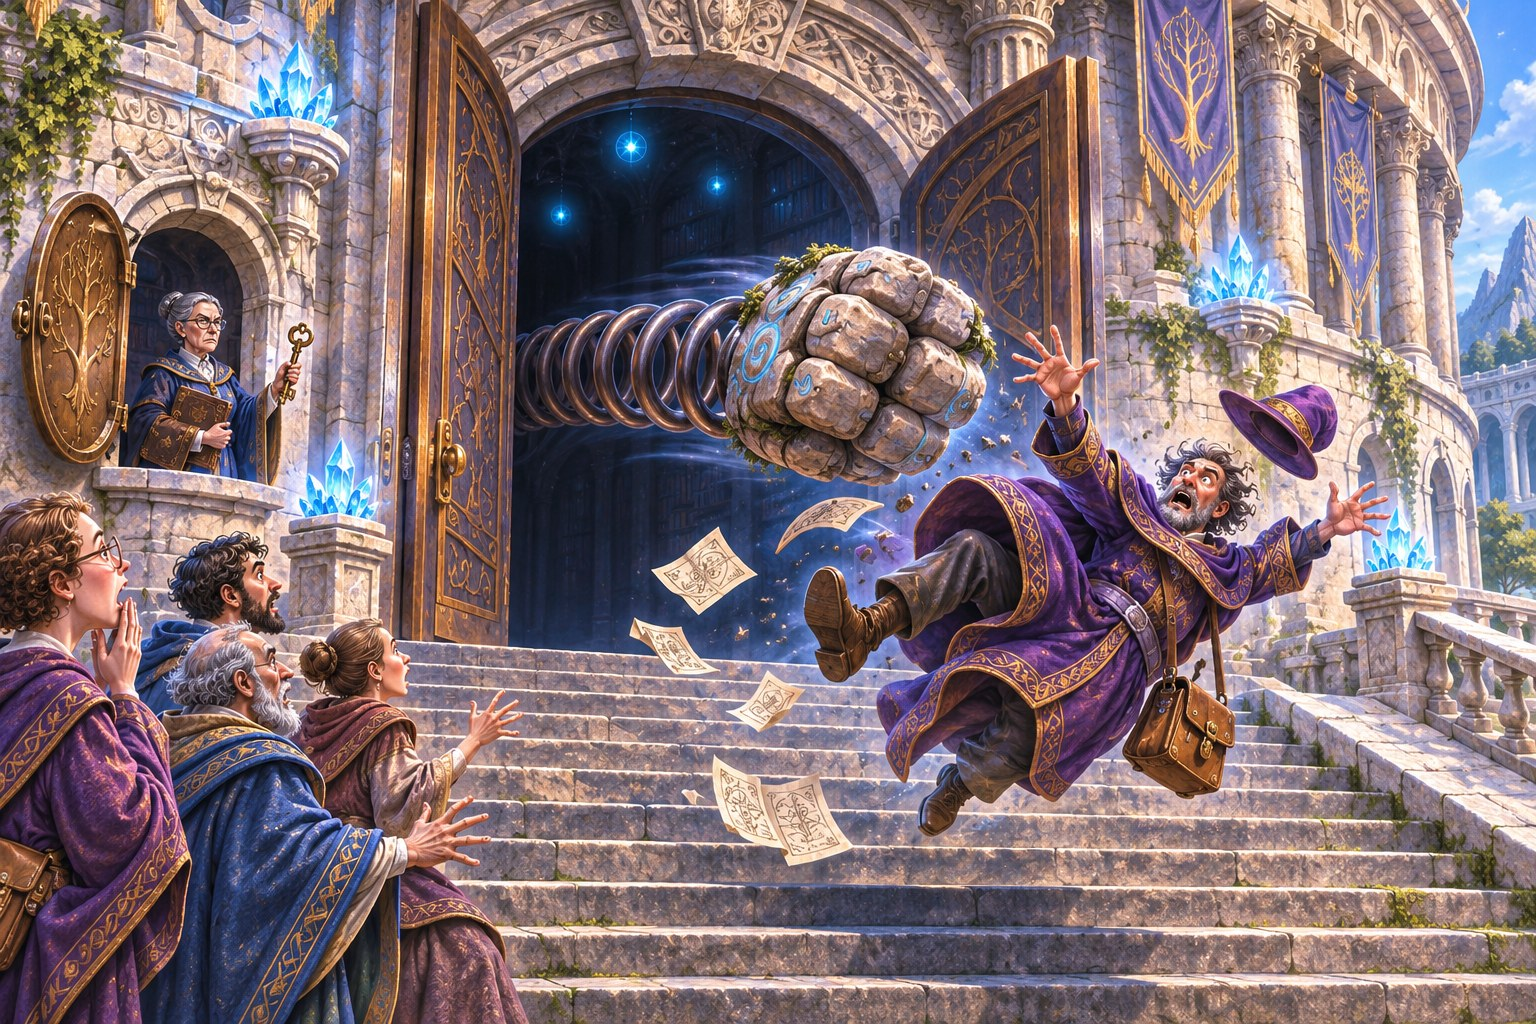
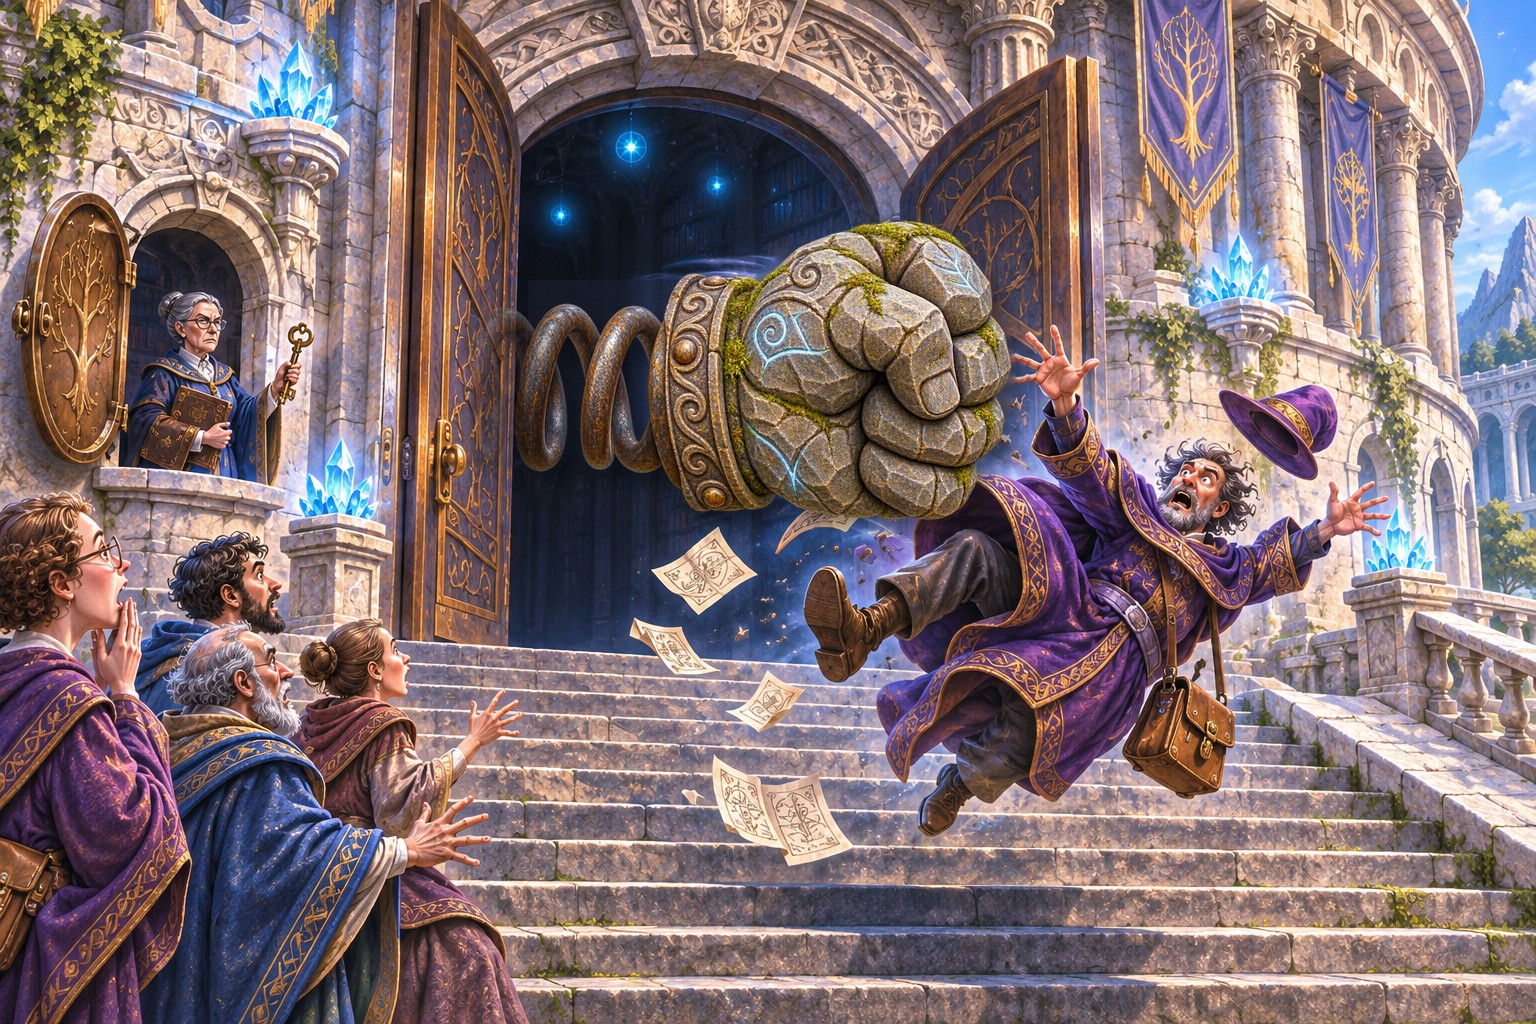
Great Archives: fixed door fist, new cover, bracelets stay behind, Brannoch goes back in, tougher golems with long knockback
Claude-Session: https://claude.ai/code/session_01QqMC3jV4Jm9bLjV1D99fiy

Changed region(s): [[0.2812, 0.2188, 0.6875, 0.5312]]

diff --git a/oneshots/great-archives/homebrewery-source.md b/oneshots/great-archives/homebrewery-source.md
@@ -99,7 +99,7 @@
 .page .oo-credits h2{margin-top:0}
 .page .oo-credits p{font-size:12.5px}
 </style>
[2 lines of base64/hex data omitted]
 \page
 <div class="running" style="--accent:#8a3b12"><span>The Destruction of the Great Archives</span><span>GM ONLY</span></div><div class="pf-body gm-synopsis" style="--accent:#8a3b12"><h1>GM synopsis</h1><p class="synopsis-deck">The Destruction of the Great Archives</p><div class="synopsis-columns"><div><h3>The adventure</h3><p><strong>Professor Emeric Quillweather</strong> has spent years following the research of Magister Othrelis Var, and he has done it: a Genesis Egg, through three of its four stages, ready to hatch. He hires the party to keep him safe on the way to the <strong>Great Archives</strong>, then begs them to stay for the hatching.</p><p>On the players’ phones, the egg hatches into the fluffiest bird anyone has ever seen. They name it, stroke it and feed it. Then it flutters to a bookcase, and a stone guardian punches it flat. <strong>BOING! SPLAT!</strong></p><h3>What is really happening</h3><p>The bird has no bracelet, and in the Great Archives no bracelet means intruder. The golems are not broken. They are doing exactly what they were built to do.</p><p>Nobody knew the egg had been infused with fire. <strong>WHOOMPH.</strong> The bird is reborn in flame, the shelves catch, and a terrified baby phoenix flies straight up through the tower with every guardian in the building after it.</p></div><div><h3>Where it leads</h3><ul><li><strong>Act I:</strong> the hire, the escort and the doors. BOING!</li><li><strong>Act II:</strong> naming, hatching and bonding on the players’ phones. SPLAT!</li><li><strong>Act III:</strong> the Archives burn. WHOOMPH! The bird, the fire, the people and the books.</li><li><strong>Ending:</strong> the assembly ground, and the librarians’ story.</li></ul><p>Built for six level-3 characters in one session of about 3–3½ hours. Set in the Great Archives, 298 THK.</p><p><strong>History says the Archives burn.</strong> This adventure never fakes that. The players get every honest chance to change it.</p></div></div><section class="story-navigation"><h2>At the table</h2><div class="nav-grid"><div><h4>Story route</h4><p><a href="#p3">Running this adventure</a></p><p><a href="#p5">Act I · The Professor and the Archives</a></p><p><a href="#p9">Act II · Naming, Hatching, Bonding</a></p><p><a href="#p13">Act III · The Archives Burn</a></p><p><a href="#p19">Ending · The Assembly Ground</a></p></div><div><h4>Reference</h4><p><a href="#p20">GM quick reference</a></p><p><a href="#p14">Golem hazard card</a></p><p><a href="#p2">The tower, level by level</a></p><p><a href="#p22">Maps</a></p><p><a href="#p27">Tracker, log and naming sheet</a></p><p><a href="#p31">Player handout</a></p></div></div></section></div><div class="folio-footer"><span>The Destruction of the Great Archives</span><span>2</span></div>
 \page
@@ -124,6 +124,10 @@
 <tr>
 <td style="text-align: left;"><strong>No bangle, no safety</strong></td>
 <td style="text-align: left;">A bracelet teleports <strong>only its wearer</strong>. Holding the bird when you teleport? The bird stays exactly where you were.</td>
+</tr>
+<tr>
+<td style="text-align: left;"><strong>Out means out</strong></td>
+<td style="text-align: left;">A bracelet that takes you to the assembly ground comes off there and is gone. Go back in, and you go in without one.</td>
 </tr>
 <tr>
 <td style="text-align: left;"><strong>Golems chase the bird</strong></td>
@@ -169,7 +173,7 @@
 </tr>
 <tr>
 <td style="text-align: left;"><strong>The golems</strong></td>
-<td style="text-align: left;">Seven stone guardians. Polite, precise, unstoppable.</td>
+<td style="text-align: left;">Seven stone guardians. Polite, precise, very hard to stop.</td>
 </tr>
 <tr>
 <td style="text-align: left;"><strong>Head Librarian Ottoline Faversham</strong></td>
@@ -181,7 +185,7 @@
 </tr>
 <tr>
 <td style="text-align: left;"><strong>Brannoch Tey</strong></td>
-<td style="text-align: left;">A young follower who slipped inside. No bracelet.</td>
+<td style="text-align: left;">A young copyist, quietly a follower of Isthara. Escapes, then goes back in without his bracelet.</td>
 </tr>
 <tr>
 <td style="text-align: left;"><strong>Old Wenlow</strong></td>
@@ -366,16 +370,16 @@
 </tbody>
 </table></div></div></div><div class="folio-footer"><span>The Destruction of the Great Archives</span><span>13</span></div>
 \page
-<div class="running" style="--accent:#8a3b12"><span>The Destruction of the Great Archives</span><span>GM · GOLEMS</span></div><div class="pf-body columns" style="--accent:#8a3b12"><div class="layout-cols"><div class="flow-col"><div class="hazard"><h4>Golem · hazard card</h4><p><em>Huge construct guardian. It cannot be destroyed. It can be outwitted.</em></p>
+<div class="running" style="--accent:#8a3b12"><span>The Destruction of the Great Archives</span><span>GM · GOLEMS</span></div><div class="pf-body columns" style="--accent:#8a3b12"><div class="layout-cols"><div class="flow-col"><div class="hazard"><h4>Golem · hazard card</h4><p><em>Huge construct guardian. Very hard to destroy. Easier to outwit.</em></p>
 <ul>
 <li><strong>Target:</strong> always the <strong>closest creature without a bracelet</strong> it can reach.</li>
 <li><strong>Fist:</strong> +7 to hit, reach 30 ft (the spring shoots out and snaps back).</li>
-<li><strong>Hits a PC who got in the way:</strong> 12 (2d8 + 3) Bludgeoning, and DC 13 Strength save or pushed 10 ft and knocked Prone.</li>
+<li><strong>Hits anyone else:</strong> only 4 (1d4 + 2) Bludgeoning, but they're <strong>knocked 30 ft</strong> straight back and land Prone (DC 13 Strength save: 10 ft, and stay standing). Slamming into a wall or shelf adds 3 (1d6). Knocked over a gallery rail, they fall to the level below.</li>
 <li><strong>Hits the bird:</strong> the bird dies and is reborn, <strong>WHOOMPH</strong>. That spot is now <strong>burning</strong>. Everyone within 10 ft makes a DC 12 Dexterity save, taking 7 (2d6) Fire damage on a failure, half on a success.</li>
 <li><strong>Misses:</strong> the fist smashes whatever is behind the target. Mark that spot <strong>damaged</strong>.</li>
 <li><strong>Moves:</strong> 30 ft a round, by the stairs. It does not jump the gaps.</li>
-<li><strong>Staggering it:</strong> 25 damage in one round, and it loses its next turn. Nothing more.</li>
-<li><strong>Immune</strong> to being Charmed or Frightened. It ignores fire entirely.</li>
+<li><strong>Toughness:</strong> AC 17, 150 Hit Points. <strong>Resistant</strong> to all damage; <strong>immune</strong> to Fire, Poison and Psychic damage, and to being Charmed, Frightened or Poisoned. A level-3 party is not going to break one, and shouldn't need to.</li>
+<li><strong>Staggering it:</strong> 20 damage in one round (after resistance), and it loses its next turn.</li>
 </ul></div><div class="gm-note"><h4>Only two chase at once</h4><p>Only the golem on the bird’s level and the one on the level below it pursue. The rest guard their posts, and punch anything without a bracelet that comes within reach.</p></div></div><div class="flow-col"><h3>Stopping a strike</h3>
 <p>Each of these stops <strong>one</strong> strike. Reward anything else that's clever and fits the rules.</p>
 <table>
@@ -432,8 +436,9 @@
 </ul>
 <h3>Teleporting out</h3>
 <ul>
-<li>A PC wearing a bracelet who would drop to <strong>0 Hit Points</strong>, or take a deadly fall or burn, is <strong>teleported to the assembly ground at 1 Hit Point</strong> instead. They're out of the scene.</li>
-<li>Anyone can <strong>activate a bracelet at will</strong>.</li>
+<li>A PC wearing a bracelet who would drop to <strong>0 Hit Points</strong>, or take a deadly fall or burn, is <strong>teleported to the assembly ground at 1 Hit Point</strong> instead.</li>
+<li>Anyone can <strong>activate a bracelet at will</strong>: the emergency way out.</li>
+<li><strong>The bracelet stays behind.</strong> On arrival it slips off and vanishes back to the recess. Anyone who goes back inside does so <strong>without a bracelet</strong>, and the golems treat them as an intruder.</li>
 <li><strong>If they're holding the bird,</strong> it drops exactly where they stood.</li>
 </ul><div class="gm-note"><h4>False hope, fairly</h4><p>Let them win things. A contained gallery, a blocked punch, a rescued cat, a dozen books saved: all real, all permanent. The tower tips towards burning because there is too much to do and too few heroes, not because anything is faked. Keep the tracker swinging both ways.</p></div></div></div></div><div class="folio-footer"><span>The Destruction of the Great Archives</span><span>15</span></div>
 \page
@@ -470,7 +475,7 @@
 <td style="text-align: left;"><strong>4 · Faith and law</strong></td>
 <td style="text-align: left;">Temple texts, including Isthara's</td>
 <td style="text-align: left;">3 clusters</td>
-<td style="text-align: left;"><strong>Brannoch Tey</strong>, hiding with a sealed book</td>
+<td style="text-align: left;"><strong>Brannoch Tey</strong>, back without a bracelet</td>
 </tr>
 <tr>
 <td style="text-align: left;"><strong>5 · Restricted</strong></td>
@@ -488,7 +493,7 @@
 </table>
 <p><strong>Getting out with the bird:</strong> the doors on Level 1 (two golems guard them), the tall windows on any level (a long drop to the square), or the roof hatch on Level 6 (an iron ladder, then the rooftops).</p><div class="gm-note"><h4>Var’s notebooks</h4><p>The professor’s own research copy of Var is on Level 3. If it burns, he grieves it all the way to the assembly ground. If a player unseals it and carries it out, he never forgets them.</p></div></div><div class="flow-col"><h3>The people</h3>
 <p>None of them has a bracelet, so <strong>the golems go for them too</strong>. Every one is another target, another stray fist through a shelf, and another reason the party can't be everywhere at once.</p>
-<p><strong>Brannoch Tey</strong> <em>(young follower of Isthara).</em> Darted in when the fire started and the door golems turned to chase the bird, hoping to rescue one book. Now he's trapped on Level 4, terrified, clutching it. If anyone helps him, he helps back. He knows the back stair. He has to choose between the book and his life, and the book will go home either way unless it's unsealed.</p>
+<p><strong>Brannoch Tey</strong> <em>(copyist, quietly a follower of Isthara).</em> He came in properly, bracelet and all. When the fire started he hit his bracelet and found himself on the assembly ground, bracelet gone. Then he looked up at the smoke, thought of Isthara's books on Level 4, and ran straight back in. <strong>Now he has no bracelet, and the golems come for him.</strong> The party can help him, shield him, or drag him out. If anyone helps him, he helps back: he knows the back stair. Whatever he grabs will go home unless it's unsealed at the monolith.</p>
 <p><strong>Old Wenlow</strong> <em>(librarian).</em> Took his bracelet off to polish it, put it down, and can't remember where. Kind, flustered, slow on the stairs. The bracelet is in his top pocket.</p>
 <p><strong>The reading-room cat.</strong> Under a table on Level 3, refusing to move. A perfect distraction, if anyone's quick and a little heartless.</p>
 <h3>Ottoline Faversham</h3>
@@ -606,10 +611,10 @@
 <h3>The golems</h3>
 <ul>
 <li>Target the closest creature <strong>without a bracelet</strong>.</li>
-<li>+7, reach 30 ft. 12 damage + DC 13 Str or pushed and Prone.</li>
+<li>+7, reach 30 ft. Anyone it hits: 1d4 + 2, knocked 30 ft and Prone (DC 13 Str: 10 ft).</li>
 <li>Hit the bird: WHOOMPH, new fire, DC 12 Dex for 2d6 Fire within 10 ft.</li>
 <li>Miss: damage behind the target.</li>
-<li>Can't be destroyed; 25 damage in a round makes it skip a turn.</li>
+<li>AC 17, 150 HP, resistant to everything, immune to Fire. 20 damage in a round makes it skip a turn.</li>
 <li>Only two chase the bird at once. They never fight fires.</li>
 </ul>
 <h3>Stopping a strike</h3>
@@ -661,7 +666,7 @@
 \page
 <div class="running" style="--accent:#8a3b12"><span>The Destruction of the Great Archives</span><span>GM · MAP KEY</span></div><div class="pf-body map-key-page" style="--accent:#8a3b12"><section class="map-key"><div class="map-eyebrow">GM MAP &amp; KEY · GA-M02</div><h3>An Upper Gallery</h3><figure class="gm-map-plate" style="--gm-map-height:540px"><img src="https://oberonandomegaid.github.io/aelderia/oneshots/great-archives/img/map-gallery-gm.jpg" alt="An Upper Gallery: GM reference"></figure><ul class="map-key-list"><li><strong>1 · Outer shelves</strong> — All the way round. The first thing to burn.</li><li><strong>2 · Reading platform</strong> — Raised, with tables and chairs. Half Cover.</li><li><strong>3 · The gaps</strong> — Open drops to the level below, with railings. The bird flies up through them; golems don’t jump them. Falling one level is 10 ft (1d6 damage).</li><li><strong>4 · The stairs</strong> — Up and down, top and bottom of the circle. Golems use these.</li><li><strong>5 · Crystal clusters</strong> — On the pillars. Watch them.</li><li><strong>7 · Golem patrol</strong> — One golem walks each gallery.</li></ul><p class="map-gm-note">Tall windows sit in the outer wall between the shelf runs: a long drop to the square, and a way out for a bird.</p></section></div><div class="folio-footer"><span>The Destruction of the Great Archives</span><span>25</span></div>
 \page
-<div class="running" style="--accent:#8a3b12"><span>The Destruction of the Great Archives</span><span>GM · CHARACTERS</span></div><div class="pf-body columns" style="--accent:#8a3b12"><div class="layout-cols"><div class="flow-col"><h2>Appendix A — Characters</h2><div class="cast"><img alt="" src="https://oberonandomegaid.github.io/aelderia/oneshots/great-archives/img/professor.jpg" style="object-position:50% 12%"><div><p><strong>Professor Emeric Quillweather</strong> <em>(human, sixties).</em> Brilliant, respected, cultured and a tireless chatterbox. Eleven years on Var’s research. Loves the bird the moment it hatches, marvels at its rebirth, then fights for it. <em>Voice: a delighted lecturer on his third cup of tea.</em></p></div></div><div class="cast"><img alt="" src="https://oberonandomegaid.github.io/aelderia/oneshots/great-archives/img/faversham.jpg" style="object-position:50% 12%"><div><p><strong>Head Librarian Ottoline Faversham.</strong> Brisk, proud, never wrong. Holds authority over the restricted works. Saves what she can, then writes the official story. <em>Voice: crisp, cold, final.</em></p></div></div><div class="cast"><img alt="" src="https://oberonandomegaid.github.io/aelderia/oneshots/great-archives/img/golem.jpg" style="object-position:50% 20%"><div><p><strong>The golems.</strong> Seven stone guardians. Polite, precise, literal. Not broken, not stupid. They do exactly what they were built to do. <em>Voice: none. A polite clunk.</em></p></div></div></div><div class="flow-col"><div class="cast"><img alt="" src="https://oberonandomegaid.github.io/aelderia/oneshots/great-archives/img/brannoch.jpg" style="object-position:50% 14%"><div><p><strong>Brannoch Tey</strong> <em>(follower of Isthara, early twenties).</em> Brave for about four seconds at a time. Wants one holy book back. Honest, frightened, grateful. <em>Voice: fast and breathless.</em></p></div></div><p><strong>The hatchling.</strong> Pipkin, Fizzwick, Solin or Tuppence. Fluffy, golden to crimson, enormous eyes. A phoenix, though nobody knew. Bonded to the professor.</p>
+<div class="running" style="--accent:#8a3b12"><span>The Destruction of the Great Archives</span><span>GM · CHARACTERS</span></div><div class="pf-body columns" style="--accent:#8a3b12"><div class="layout-cols"><div class="flow-col"><h2>Appendix A — Characters</h2><div class="cast"><img alt="" src="https://oberonandomegaid.github.io/aelderia/oneshots/great-archives/img/professor.jpg" style="object-position:50% 12%"><div><p><strong>Professor Emeric Quillweather</strong> <em>(human, sixties).</em> Brilliant, respected, cultured and a tireless chatterbox. Eleven years on Var’s research. Loves the bird the moment it hatches, marvels at its rebirth, then fights for it. <em>Voice: a delighted lecturer on his third cup of tea.</em></p></div></div><div class="cast"><img alt="" src="https://oberonandomegaid.github.io/aelderia/oneshots/great-archives/img/faversham.jpg" style="object-position:50% 12%"><div><p><strong>Head Librarian Ottoline Faversham.</strong> Brisk, proud, never wrong. Holds authority over the restricted works. Saves what she can, then writes the official story. <em>Voice: crisp, cold, final.</em></p></div></div><div class="cast"><img alt="" src="https://oberonandomegaid.github.io/aelderia/oneshots/great-archives/img/golem.jpg" style="object-position:50% 20%"><div><p><strong>The golems.</strong> Seven stone guardians. Polite, precise, literal. Not broken, not stupid. They do exactly what they were built to do. <em>Voice: none. A polite clunk.</em></p></div></div></div><div class="flow-col"><div class="cast"><img alt="" src="https://oberonandomegaid.github.io/aelderia/oneshots/great-archives/img/brannoch.jpg" style="object-position:50% 14%"><div><p><strong>Brannoch Tey</strong> <em>(copyist and quiet follower of Isthara, early twenties).</em> Brave for about four seconds at a time. Escaped once, went back in without a bracelet for one holy book. Honest, frightened, grateful. <em>Voice: fast and breathless.</em></p></div></div><p><strong>The hatchling.</strong> Pipkin, Fizzwick, Solin or Tuppence. Fluffy, golden to crimson, enormous eyes. A phoenix, though nobody knew. Bonded to the professor.</p>
 <p><strong>Old Wenlow</strong> <em>(librarian).</em> Kind, forgetful, slow on the stairs. His bracelet is in his top pocket.</p>
 <p><strong>The reading-room cat.</strong> Unimpressed by everything, including fire.</p>
 <p><strong>The bracelet librarian.</strong> Comes out to the steps with her key and ledger. Bored, thorough, entirely correct. <em>"You, mind. Not your lunch."</em></p>
@@ -673,11 +678,11 @@
 \page
 <div class="running" style="--accent:#8a3b12"><span>The Destruction of the Great Archives</span><span>GM ONLY · NAMING SHEET</span></div><div class="pf-body stat" style="--accent:#8a3b12"><h2>The naming sheet</h2><p><strong>Private. Never show this to the players.</strong> The professor talks over the qualities in character. Listen to what the players want, then offer one name, or two or three for a vote. All four birds are equally adorable.</p><div class="four-box"><div><h4>Pipkin</h4><p><strong>Curious, adventurous, inquisitive.</strong></p><p>On the phone: Peers at everything, tilts its head, investigates your hand.</p><p class="say">The professor: “A little explorer. It will want to know what’s behind every door, and it will find out.”</p></div><div><h4>Fizzwick</h4><p><strong>Playful, mischievous, energetic.</strong></p><p>On the phone: Bounces, flutters, hops at the slightest excuse.</p><p class="say">The professor: “Oh, trouble. Delightful trouble. We shall never have a quiet afternoon again.”</p></div><div><h4>Solin</h4><p><strong>Gentle, thoughtful, observant.</strong></p><p>On the phone: Slow blinks, soft chirps, studies you calmly.</p><p class="say">The professor: “A quiet one. It will watch, and it will understand more than we think.”</p></div><div><h4>Tuppence</h4><p><strong>Affectionate, loyal, cuddly.</strong></p><p>On the phone: Leans into every stroke and asks for more.</p><p class="say">The professor: “A heart on two little feet. It will love whoever loves it, completely.”</p></div></div><div class="gm-note"><h4>Prompts for the professor</h4><p>“Names matter. Var said the name shapes the creature as much as the creature shapes the name.” · “What would you want from a little companion? Curiosity? Mischief? Calm? Devotion?” · “I have a name in mind. Shall I say it, or shall we vote?”</p></div></div><div class="folio-footer"><span>The Destruction of the Great Archives</span><span>29</span></div>
 \page
-<div class="pf-body oo-fill"><img alt="" src="https://oberonandomegaid.github.io/aelderia/oneshots/great-archives/img/golem.jpg"></div>
+<div class="pf-body oo-fill"><img alt="" src="https://oberonandomegaid.github.io/aelderia/oneshots/great-archives/img/burning.jpg"></div>
 \page
 <div class="running" style="--accent:#8a3b12"><span>The Destruction of the Great Archives</span><span>PLAYER HANDOUT</span></div><div class="pf-body columns handout-page oo-prop" style="--accent:#8a3b12"><div class="layout-cols"><div class="flow-col"><p class="map-eyebrow">PLAYER HANDOUT 1</p><h3>The official proclamation</h3><div class="papers proc"><p><em>By order of the Keepers of the Great Archives, 298 THK.</em></p><p><em>Let it be known that the Great Archives suffered a grievous fire, caused by the deliberate sabotage of unidentified intruders. The Archives’ guardians performed flawlessly. No animals were present. Any person claiming otherwise is mistaken.</em></p><p><em>— O. Faversham, Head Librarian</em></p></div></div></div><div class="oo-qr"><img alt="QR code" src="https://oberonandomegaid.github.io/aelderia/oneshots/great-archives/qr/handout-1.png"><span><b>SCAN ME</b>Open “The official proclamation”<br>on your phone</span></div></div><div class="folio-footer"><span>The Destruction of the Great Archives</span><span>31</span></div>
 \page
-<div class="pf-body oo-fill"><img alt="" src="https://oberonandomegaid.github.io/aelderia/oneshots/great-archives/img/burning.jpg"></div>
+<div class="pf-body oo-fill"><img alt="" src="https://oberonandomegaid.github.io/aelderia/oneshots/great-archives/img/professor.jpg"></div>
 \page
 <div class="pf-body oo-pregen"><img alt="Pre-generated characters, level 3, page 1" src="https://oberonandomegaid.github.io/aelderia/characters/handouts/pages/level-03-page-1.jpg"></div>
 \page
@@ -685,7 +690,7 @@
 \page
 <div class="pf-body oo-pregen"><img alt="Pre-generated characters, level 3, page 3" src="https://oberonandomegaid.github.io/aelderia/characters/handouts/pages/level-03-page-3.jpg"></div>
 \page
-<div class="pf-body oo-fill"><img alt="" src="https://oberonandomegaid.github.io/aelderia/oneshots/great-archives/img/professor.jpg"></div>
+<div class="pf-body oo-fill"><img alt="" src="https://oberonandomegaid.github.io/aelderia/oneshots/great-archives/img/monolith.jpg"></div>
 \page
 <div class="running" style="--accent:#51584e"><span>The Destruction of the Great Archives</span><span>CREDITS</span></div><div class="pf-body columns oo-credits" style="--accent:#8a3b12"><h2>Credits and licence</h2><p><strong>The Destruction of the Great Archives</strong> is an original adventure by Oberon &amp; Omega, set in the world of Aelderia.</p><p>The Genesis Egg system and Magister Othrelis Var appear in <em>Genesis Eggs: The Endless Possibilities</em> by Oberon &amp; Omega. The interactive egg is at oberonandomegaid.github.io/aelderia.</p><h3>Rules licence</h3><p>This work includes material from the System Reference Document 5.2.1 (“SRD 5.2.1”) by Wizards of the Coast LLC, available at https://www.dndbeyond.com/srd. The SRD 5.2.1 is licensed under the Creative Commons Attribution 4.0 International License, available at https://creativecommons.org/licenses/by/4.0/legalcode.</p><p>Rules terms used here follow the 2024 revision of the fifth-edition rules as published in SRD 5.2.1. Monsters named in this adventure use the statistics in SRD 5.2.1 unless a full stat block is printed here.</p><p>All characters, places, deities, story text and artwork are © Oberon &amp; Omega. No affiliation with or endorsement by Wizards of the Coast is implied.</p></div><div data-company-watermark="last-page" style="position:absolute;left:50%;top:50%;transform:translate(-50%,-50%);width:220pt;height:220pt;opacity:0.05;pointer-events:none;z-index:0"><img alt="" style="width:220pt!important;height:220pt!important" src="https://oberonandomegaid.github.io/aelderia/oneshots/shared/oberon-omega-logo.png"></div>
 \page
